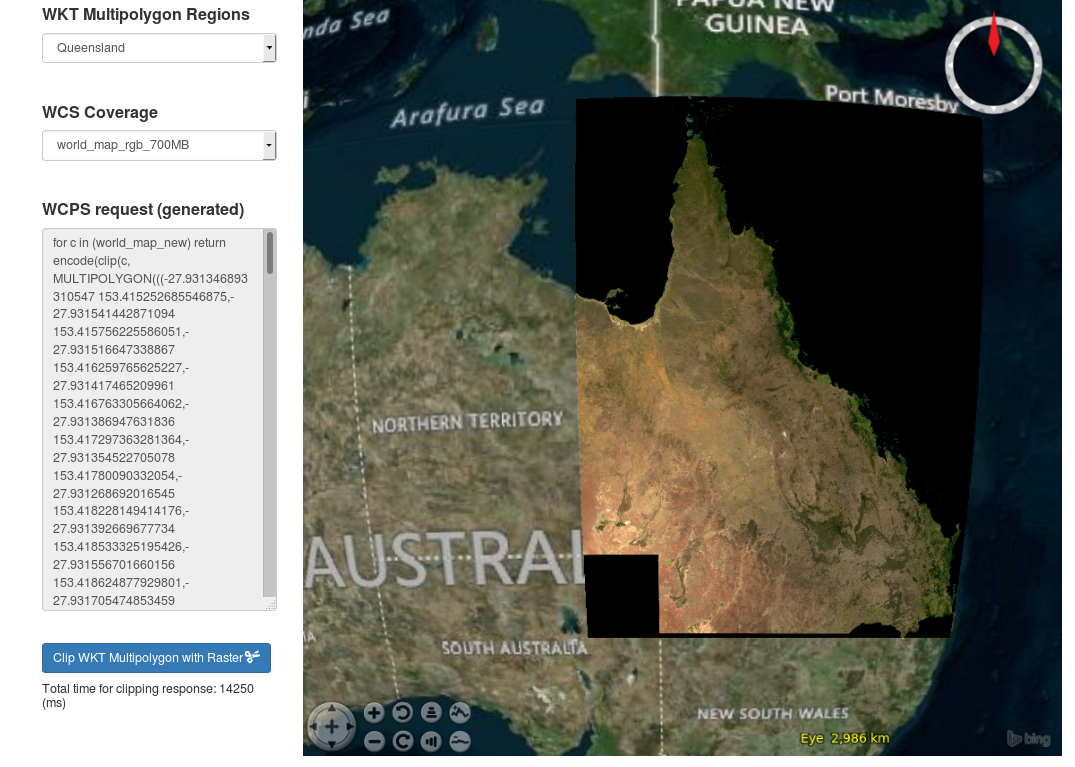
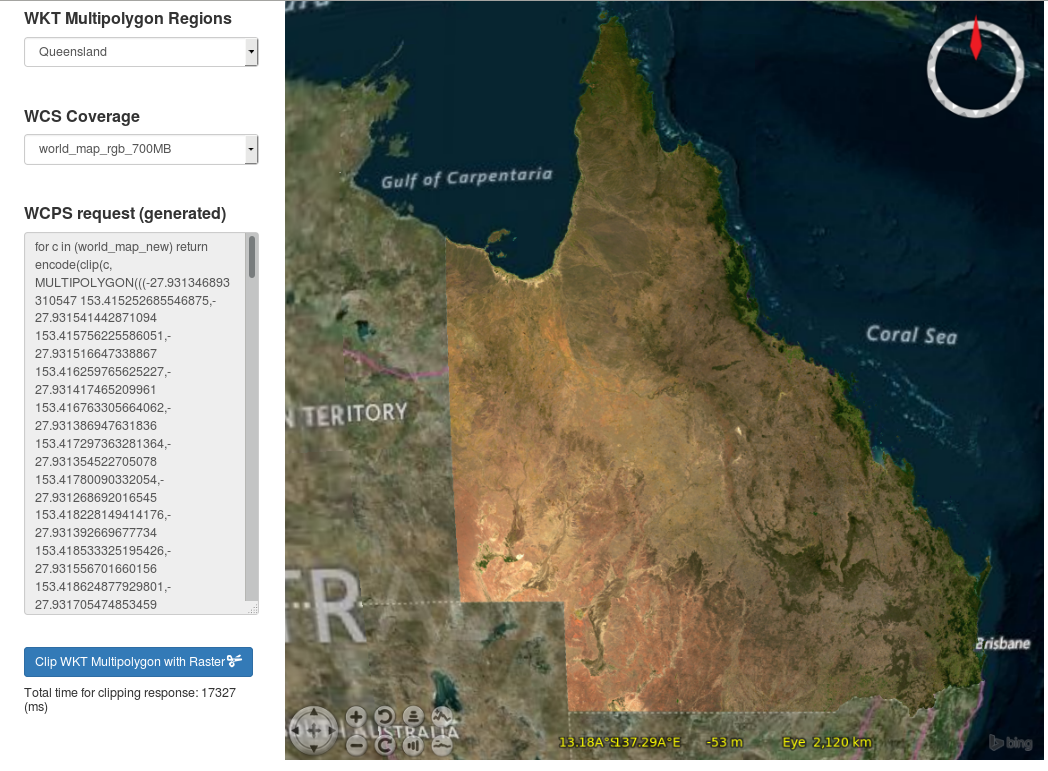
add new images

diff --git a/index.html b/index.html
@@ -103,7 +103,7 @@
 
             // show generated WCPS query
             function getGeneratedWCPSQuery() {
-                var queryTemplate = 'for c in ($COVERAGE) return encode(clip(c, $WKT), "png")';
+                var queryTemplate = 'for c in ($COVERAGE) return encode(clip(c, $WKT), "png", "nodata=0")';
 
                 // e.g: world_map_new
                 var coverage = $("#coverageList").val();
